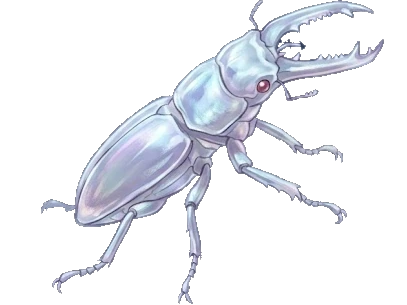
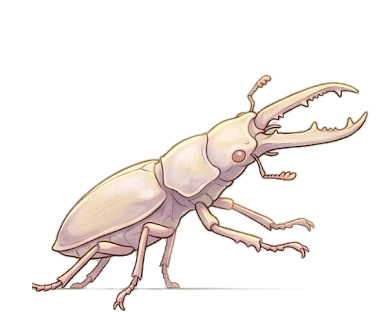
art: 장수하늘소 수컷 다시 그린 그림(집게 큰턱) · 넓적사슴벌레 알비노 스킨(새 수컷 그림 기준) + 다시 그리기 프롬프트 스펙
넓적사슴벌레 암컷은 피격 자세가 뒤집혀(배를 보임) 다시 그린다.

diff --git a/docs/art_prompts_redo_spec.py b/docs/art_prompts_redo_spec.py
@@ -1,0 +1,92 @@
+"""다시 그리기 3장 (2026-10-24 그림 검토 뒤) — 암컷 작업 페이지(art_prompts_female.json)의 카드를 바탕으로 설명만 바꾼다.
+
+    python docs/art_prompts_redo_spec.py
+    python packages/app/tool/make_prompt_page.py docs/art_prompts_redo.json "C:/Users/Lenovo/Downloads/곤충재작업/곤충재작업_작업.html"
+
+1. 넓적사슴벌레 암컷 — 1차 그림의 큰턱이 수컷처럼 길고 휘었다 → "머리보다 짧은 집게" 를 못 박는다.
+2. 장수하늘소 수컷 — 1차 그림의 큰턱이 사슴벌레 뿔처럼 가지가 갈라졌다 → "굵고 안으로 휜 집게, 가지 없음".
+3. 넓적사슴벌레 알비노 스킨 — 수컷 그림을 새로 그려 옛 알비노 시트와 자세·턱이 다르다. 화풍 기준 = **새 수컷 그림**(§C 규칙),
+   저장은 `stag_flat.png` 이름으로 따로 폴더에 두고 `place_bug_frames.py --skin albino --cut both` 로 처리한다.
+"""
+
+import json
+from pathlib import Path
+
+HERE = Path(__file__).parent
+src = json.loads((HERE / "art_prompts_female.json").read_text(encoding="utf-8"))
+by_file = {it["file"]: it for it in src["items"]}
+
+HEAD = "Character pose sheet of the same insect: "
+TAIL = " Anatomy rules:"
+
+
+def with_desc(item, desc, **over):
+    p = item["prompt"]
+    s, e = p.index(HEAD) + len(HEAD), p.index(TAIL)
+    out = dict(item)
+    out["prompt"] = p[:s] + desc + p[e:]
+    out.update(over)
+    return out
+
+
+FLAT_F = (
+    "a FEMALE flat stag beetle (Dorcus titanus castanicolor): black, very flat and broad oval body, SMALL narrow head, "
+    "mandibles TINY and stubby — shorter than the head itself, just two small pincer tips that barely poke out in front of "
+    "the face, NEVER long, NEVER curved, NEVER toothed jaws (a previous drawing gave her male-like long jaws, which is "
+    "wrong — she must look jawless at a glance), elytra glossy with fine lengthwise lines, short elbowed antennae with a "
+    "small club."
+)
+RELICT_M = (
+    "a male relict longhorn beetle (Callipogon relictus): huge dark brown-black longhorn, elytra dark brown with a faint "
+    "lighter sheen, pronotum black with FOUR oval yellow-brown hair patches and sharp spines on each side, antennae about "
+    "as long as the body but NOT longer, very long front legs. The mandibles are a pair of THICK HEAVY PINCERS: short-to-"
+    "medium length (about as long as the head), smoothly curved inward toward each other, with two or three small blunt "
+    "teeth on the inner edge — like heavy pliers. They are NOT branched, NOT forked, NOT antler-shaped, NOT stag-beetle "
+    "jaws (a previous drawing gave it forked antler jaws, which is wrong)."
+)
+FLAT_ALBINO = (
+    "an ALBINO colour variant of a male flat stag beetle (Dorcus titanus castanicolor) — the first attached image is the "
+    "normal black version of this exact beetle: keep its shape, proportions and poses exactly, change only the colours: "
+    "pearly white to pale cream shell with faint pink-lavender shading in the shadows, pale pink legs and antennae, light "
+    "red-pink eyes. Very flat and wide body, long nearly straight mandibles that curve inward only at the tips with a row "
+    "of many small inner teeth and one larger tooth near the base, short elbowed antennae with a small comb-like club. The "
+    "whole beetle including both mandibles must fit inside the picture with empty space beyond the jaw tips."
+)
+
+items = [
+    with_desc(
+        by_file["stag_flat_female"],
+        FLAT_F,
+        title="넓적사슴벌레 암컷 (다시)",
+        note="1차 그림: 큰턱이 수컷처럼 길고 휨 = 틀림. 머리보다 짧은 집게 끝만 — 한눈에 턱이 없어 보여야 한다.",
+    ),
+    with_desc(
+        by_file["longhorn_relict"],
+        RELICT_M,
+        title="장수하늘소 수컷 (다시)",
+        note="1차 그림: 공격·피격 자세 큰턱이 사슴벌레 뿔처럼 갈라짐 = 틀림. 굵고 안으로 휜 집게(펜치), 가지 없음.",
+    ),
+    with_desc(
+        by_file["stag_flat"],
+        FLAT_ALBINO,
+        title="넓적사슴벌레 알비노 스킨 (수컷 새 그림 기준)",
+        file="stag_flat_albino",
+        ref="../packages/app/assets/images/bugs/stag_flat_adult_1.webp",
+        note="화풍 기준 = 방금 넣은 새 수컷 그림(검은색). 모양·자세는 그대로, 색만 알비노. 저장 후 이름을 stag_flat.png 로 바꿔 "
+        "별도 폴더에 두면 --skin albino 로 처리한다.",
+    ),
+]
+# 알비노는 실물 사진이 필요 없다(색 지정이 프롬프트에 있다).
+for k in ("photo", "photoNote", "photoCredit"):
+    items[2].pop(k, None)
+
+spec = dict(
+    title="곤충 다시 그리기 3장 (2026-10-24)",
+    saveDir=r"C:\Users\Lenovo\Downloads\곤충재작업",
+    intro="1 = 넓적사슴벌레 암컷(큰턱 짧게) · 2 = 장수하늘소 수컷(큰턱 집게 모양) · 3 = 넓적사슴벌레 알비노 스킨(새 수컷 그림을 기준으로 색만). "
+    "가로 3자세 한 장(대기 · 공격 · 피격), 가장자리에 여백. 첫 그림 = 화풍 기준, (있으면) 두 번째 = 실물 사진.",
+    items=items,
+)
+out = HERE / "art_prompts_redo.json"
+out.write_text(json.dumps(spec, ensure_ascii=False, indent=1), encoding="utf-8")
+print(len(items), "cards →", out)
